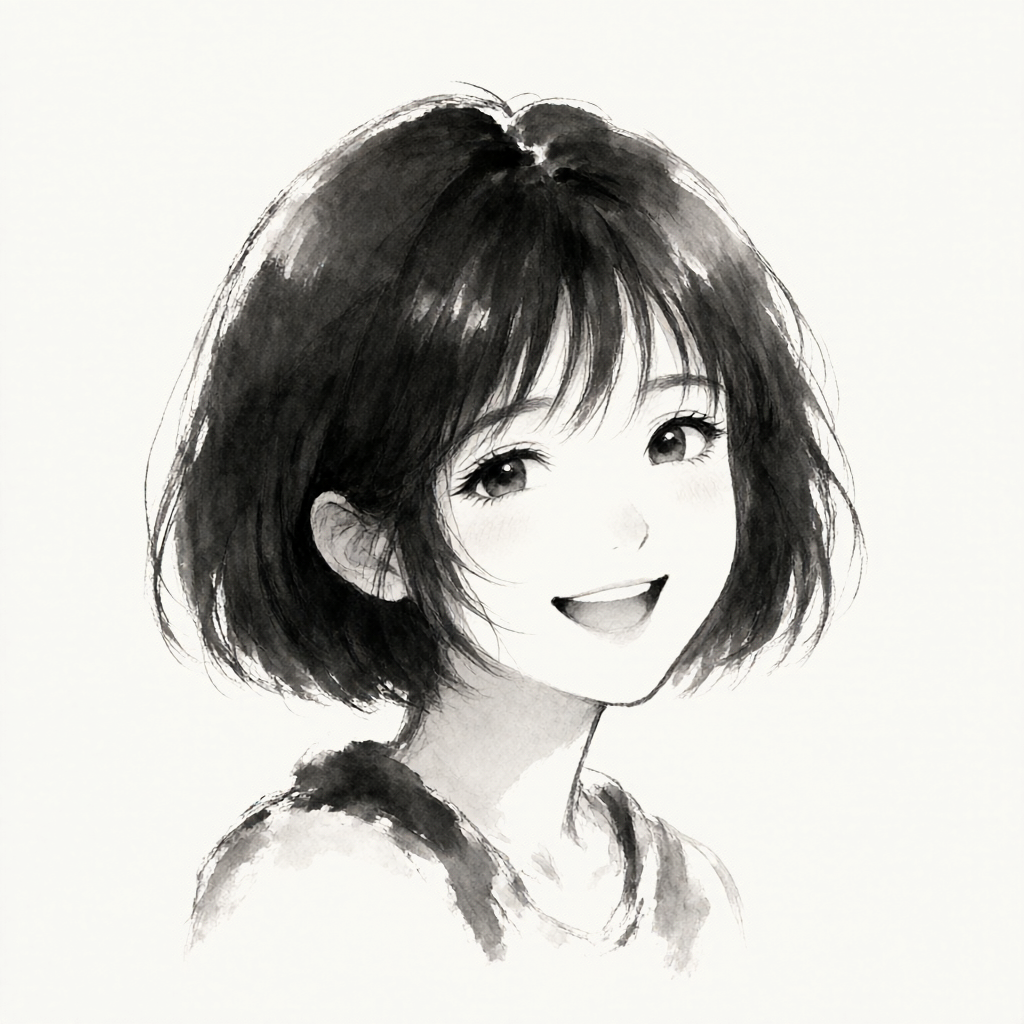
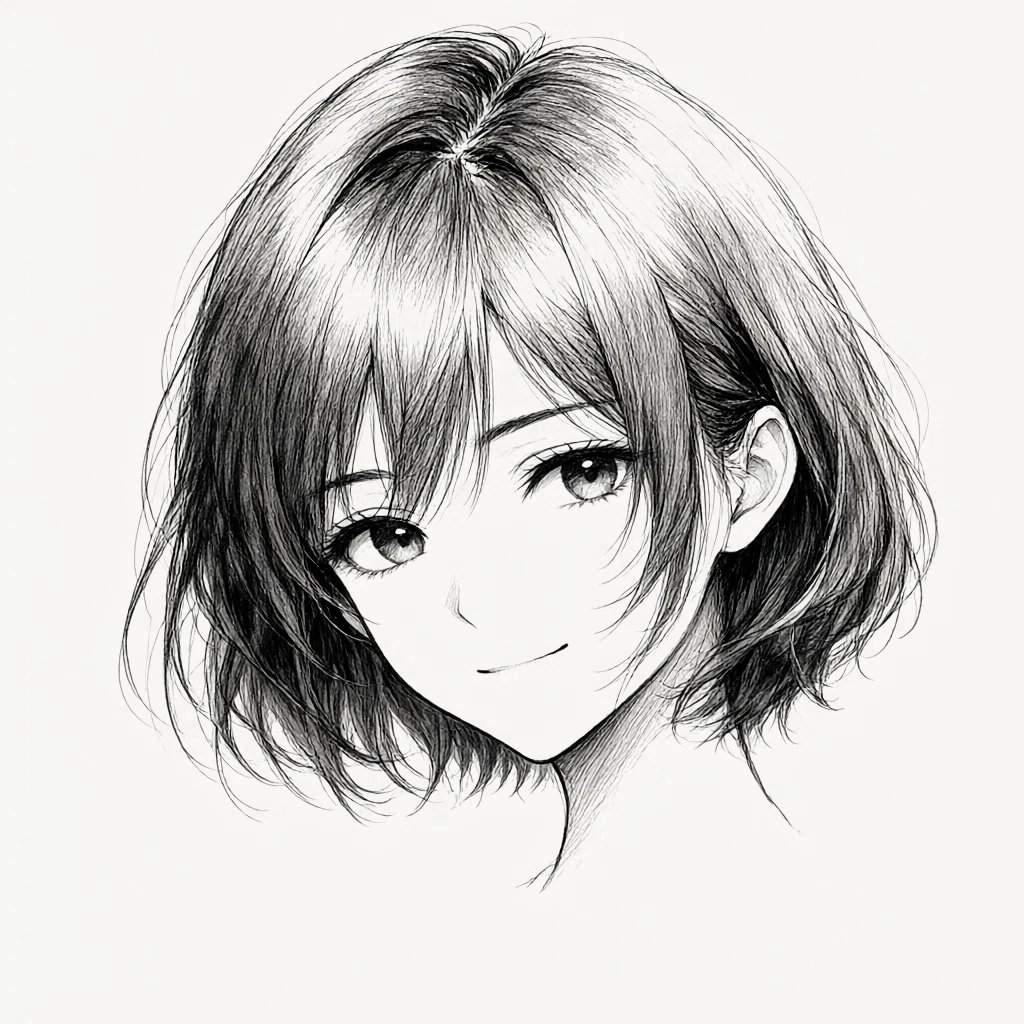
feat(ui): 换铅笔稿人像图标；首启跳过后不再尝试加载缺失模型

diff --git a/app/lib/app/app_state.dart b/app/lib/app/app_state.dart
@@ -394,6 +394,9 @@ class AppState extends ChangeNotifier {
       );
       return _chatService!;
     }
+    if (settings.chatModelPath == null) {
+      throw StateError('还没有选择聊天模型');
+    }
     final gateway = NobodyWhoGateway(
       chatModelPath: settings.chatModelPath!,
       embedModelPath: settings.embedModelPath,
@@ -412,6 +415,15 @@ class AppState extends ChangeNotifier {
   /// 进主页时预热模型（真机）。
   Future<void> warmUp() async {
     if (gatewayLoaded) return;
+    if (!settings.confirmed) return;
+    final cloudReady = settings.backend == 'cloud' && cloudApiKey.isNotEmpty;
+    if (!modelsReady && !cloudReady) {
+      // 用户选了「稍后配置」：没有模型就别去加载，也别挂红色错误条。
+      loadStage = '';
+      loadError = null;
+      notifyListeners();
+      return;
+    }
     loadError = null;
     notifyListeners();
     try {

diff --git a/docs/release-notes-v1.0.0.md b/docs/release-notes-v1.0.0.md
@@ -32,6 +32,6 @@
 
 ```
 文件    ragchat-1.0.0-arm64.apk
-sha256  1485820befe8c690aa527f9b3addcb2e770f11a0e996fc02679f16642dd25228
+sha256  8778287f338f5525605e2acda1424c973ffe0735b048f98a987908ee171f4002
 大小    46 MB
 ```
